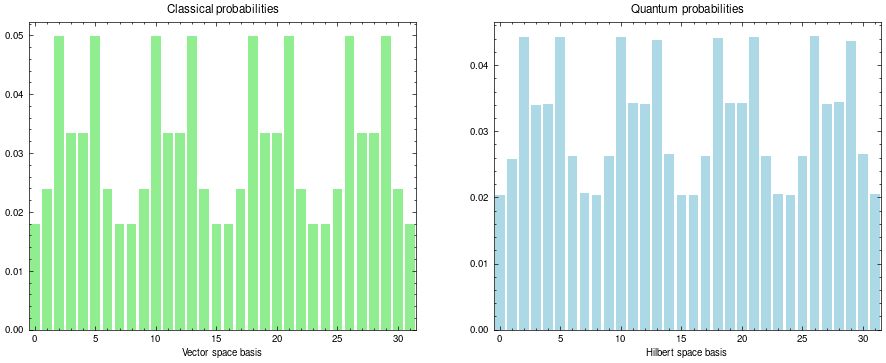
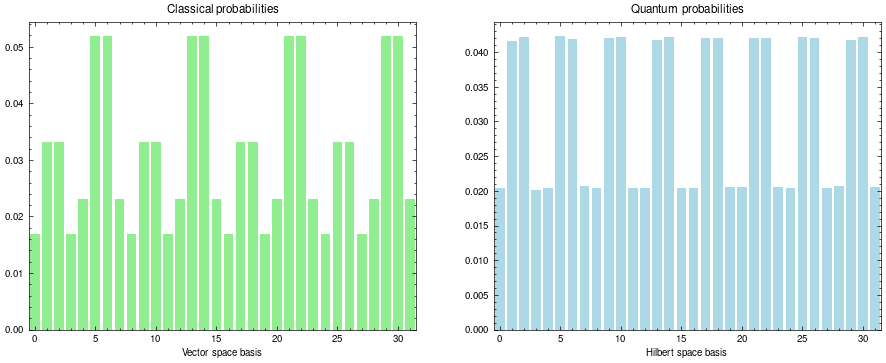
updates

diff --git a/drafts/vqc_test_3_5q.py b/drafts/vqc_test_3_5q.py
@@ -8,27 +8,50 @@ plt.style.use(['science','nature'])
 import time
 
 """
-A = zeta * I + J X_1 + J X_2 + eta Z_3 Z_4 + gamma Z_4 Z_5
+A = zeta * I + J X_1 X_2 + J X_2 Z_3 + eta Z_4 Z_5
 """
 
 J = 0.1
 zeta = 1
 eta = 0.2
-gamma = 0.1
+#gamma = 0.1
 
 n_layers =1
 n_qubits = 5  # Number of system qubits.
 n_shots = 10 ** 6  # Number of quantum measurements.
 tot_qubits = n_qubits + 1  # Addition of an ancillary qubit.
 ancilla_idx = n_qubits  # Index of the ancillary qubit (last position).
-steps = 3 # Number of optimization steps
+steps = 10 # Number of optimization steps
 learning_rate = 2  # Learning rate
-q_delta = 0.001  # Initial spread of random quantum weights
+q_delta = 0.01  # Initial spread of random quantum weights
 rng_seed =42 # Seed for random number generator
 
 print("Number of Strongly Entangled Layers: ", n_layers)
 # Coefficients of the linear combination A = c_0 A_0 + c_1 A_1 ...
-c = np.array([zeta, J, J, eta, gamma])
+c = np.array([zeta, J, J, eta])
+
+Id = np.identity(2)
+Z = np.array([[1, 0], [0, -1]])
+X = np.array([[0, 1], [1, 0]])
+A_0 = np.identity(2**n_qubits)
+A_1 = np.kron(X, np.kron(X, np.kron(Id, np.kron(Id, Id))))
+A_2 = np.kron(Id, np.kron(X, np.kron(Z, np.kron(Id, Id))))
+A_3 = np.kron(Id, np.kron(Id, np.kron(Id, np.kron(Z, Z))))
+#A_4 = np.kron(Id, np.kron(Id, np.kron(Id, np.kron(Id, Z))))
+
+
+A_num = c[0] * A_0 + c[1] * A_1 + c[2] * A_2 + c[3] * A_3 #+ c[4]*A_4
+b = np.ones(2**n_qubits) / np.sqrt(2**n_qubits)
+
+print("A = \n", A_num)
+print("b = \n", b)
+
+A_inv = np.linalg.inv(A_num)
+x = np.dot(A_inv, b)
+
+c_probs = (x / np.linalg.norm(x)) ** 2
+
+
 
 def U_b():
     """Unitary matrix rotating the ground state to the problem vector |b> = U_b |0>."""
@@ -42,22 +65,21 @@ def CA(idx):
         None
 
     elif idx == 1:
-        # X_0
+        # X_0 X_1
         qml.CNOT(wires=[ancilla_idx, 0])
-
-    elif idx == 2:
-        # X_1
         qml.CNOT(wires=[ancilla_idx, 1])
 
-    elif idx == 3:
-        # Z_2 Z_3
+    elif idx == 2:
+        # X_1 Z_2
+        qml.CNOT(wires=[ancilla_idx, 1])
         qml.CZ(wires=[ancilla_idx, 2])
-        qml.CZ(wires=[ancilla_idx, 3])
 
-    elif idx == 4:
-        # Z_3 Z_4
+    elif idx == 3:
+        # Z_4 Z_5
         qml.CZ(wires=[ancilla_idx, 3])
         qml.CZ(wires=[ancilla_idx, 4])
+
+
 
 
 def variational_block(weights):
@@ -68,43 +90,6 @@ def variational_block(weights):
 
     # A very minimal variational circuit.
     qml.StronglyEntanglingLayers(weights=weights, wires=range(n_qubits))
-
-def vqls_circ_1():
-    """
-    for
-    J = 0.1
-    zeta = 1
-    eta = 0.2
-    :return:
-    """
-    for i in range(4):
-        qml.Hadamard(wires=i)
-
-    qml.Rot(0.5604857779729846,
-                0.2975881694474745,
-                -0.16130212489384718, wires=1)
-    qml.Rot(-0.07462353342079096,
-                0.33125436215663834,
-                0.07889636851129728, wires=3)
-    qml.Rot(0.05215167213498776,
-                -1.4000847094560546e-07,
-                -0.05215168141170644, wires=0)
-    qml.CNOT(wires=[1,0])
-    qml.Rot(0.039182651193984515,
-                -0.29532920771860316,
-                0.08795141616001576, wires=1)
-    qml.CNOT(wires=[1,0])
-    qml.Rot(0.0882697884073239,
-                1.419131193023994e-07,
-                -0.08826979432942605, wires=0)
-    qml.Rot(-0.18223202170553732,
-                -4.199805334992931e-09,
-                0.1822320257843591, wires=2)
-    qml.CNOT(wires=[2,3])
-    qml.Rot(-0.6359327678530272,
-                0.015263241646471063,
-                0.10453369952015328, wires=1)
-    #return qml.sample()
 
 dev_mu = qml.device("default.qubit.autograd", wires=tot_qubits)
 
@@ -191,27 +176,6 @@ for it in range(steps):
     epoch_end = time.time()
     print("Step {:3d}       Cost_L = {:2.15f}    Time {:9.7f}".format(it, cost, epoch_end-epoch_start))
     cost_history.append(cost)
-
-Id = np.identity(2)
-Z = np.array([[1, 0], [0, -1]])
-X = np.array([[0, 1], [1, 0]])
-A_0 = np.identity(2**n_qubits)
-A_1 = np.kron(X, np.kron(Id, np.kron(Id, np.kron(Id, Id))))
-A_2 = np.kron(Id, np.kron(X, np.kron(Id, np.kron(Id, Id))))
-A_3 = np.kron(Id, np.kron(Id, np.kron(Z, np.kron(Z, Id))))
-A_4 = np.kron(Id, np.kron(Id, np.kron(Id, np.kron(Z, Z))))
-
-
-A_num = c[0] * A_0 + c[1] * A_1 + c[2] * A_2 + c[3] * A_3 + c[4] * A_4
-b = np.ones(2**n_qubits) / np.sqrt(2**n_qubits)
-
-print("A = \n", A_num)
-print("b = \n", b)
-
-A_inv = np.linalg.inv(A_num)
-x = np.dot(A_inv, b)
-
-c_probs = (x / np.linalg.norm(x)) ** 2
 
 dev_x = qml.device("default.qubit", wires=n_qubits, shots=n_shots)
 

diff --git a/vqls_search_5q.py b/vqls_search_5q.py
@@ -75,15 +75,15 @@ if __name__ == "__main__":
         init_qubit_with_controls=init_qubit_with_actions,
         init_params=init_params,
         num_iterations=50,
-        num_warmup_iterations=10,
+        num_warmup_iterations=5,
         super_circ_train_optimizer=qml.GradientDescentOptimizer,
-        super_circ_train_gradient_noise_factor=0.01,
+        super_circ_train_gradient_noise_factor=0.0,
         early_stop_threshold=0.8,
         early_stop_lookback_count=1,
         super_circ_train_lr=0.1,
         penalty_function=penalty_func,
         gate_limit_dict=gate_limit,
-        warmup_arc_batchsize=500,
+        warmup_arc_batchsize=20,
         search_arc_batchsize=100,
         alpha_max=2,
         alpha_decay_rate=0.9,
